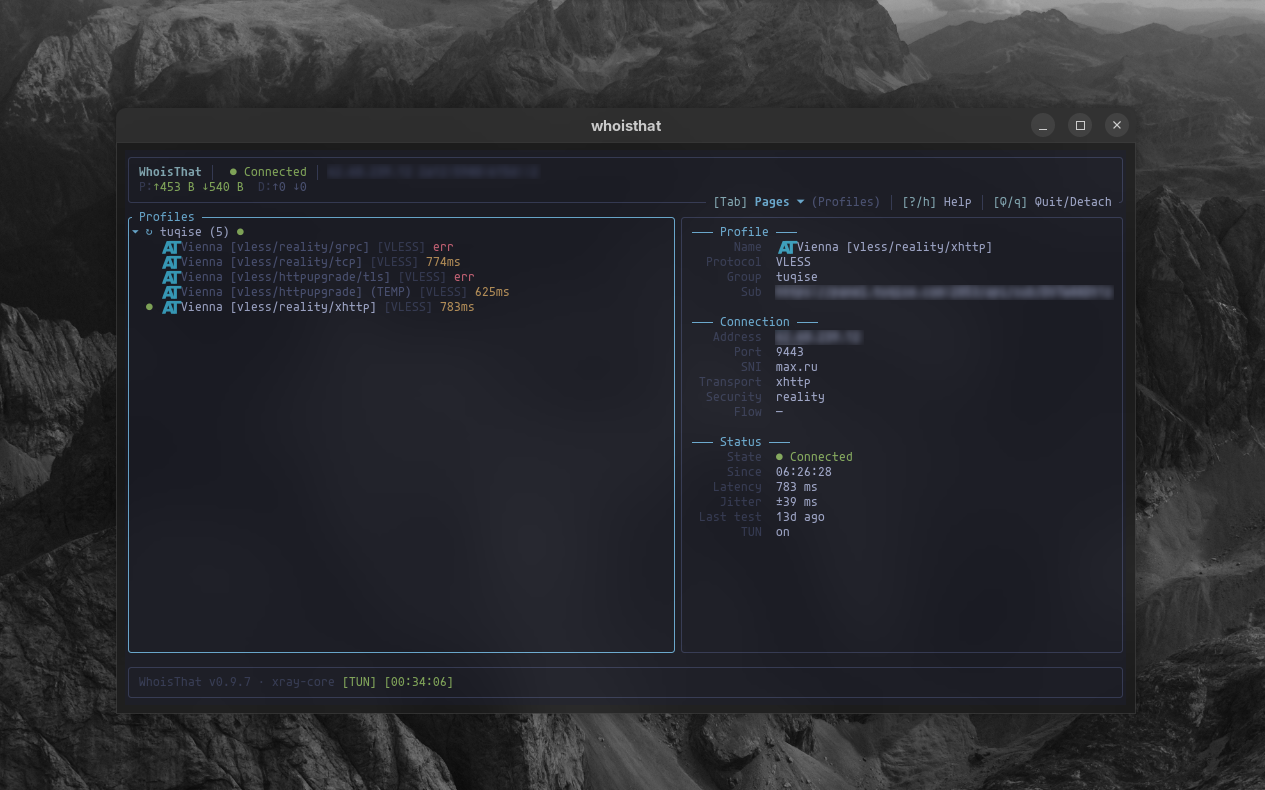
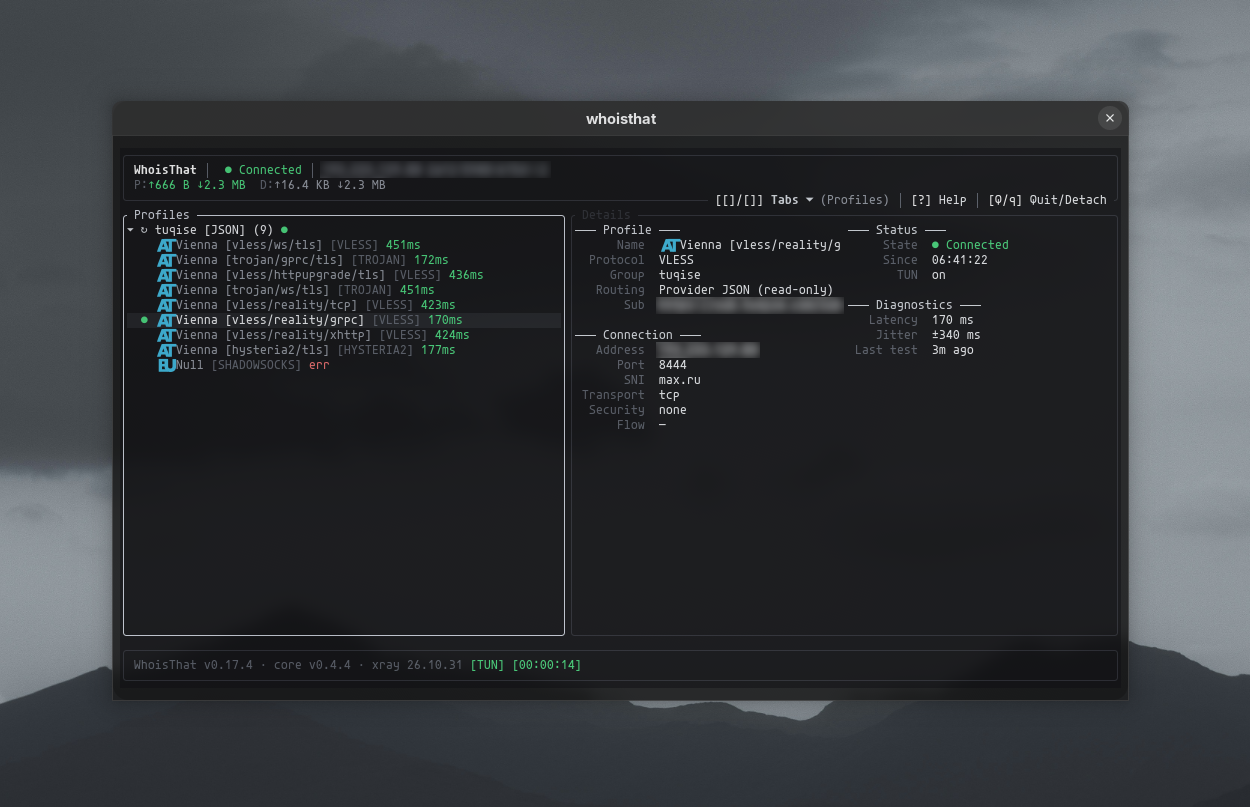
docs: refresh screenshots, drop duplicate assets and document donation options

diff --git a/README.md b/README.md
@@ -27,9 +27,9 @@
 **WhoisThat** brings ergonomic terminal interaction to modern proxy circumvention and system-wide VPN networking. It eliminates the need for bulky Electron apps while delivering full rootless TUN routing, application-level split tunneling via cgroup v2, real-time Braille bandwidth graphs, and comprehensive provider subscription management.
 
 <div align="center">
-  <img src="screen1.png" alt="WhoisThat Profiles & Details" width="100%" />
+  <img src="docs/public/screen1.png" alt="WhoisThat Profiles & Details" width="100%" />
   <br/><br/>
-  <img src="screen2.png" alt="WhoisThat Real-Time Traffic Monitoring" width="100%" />
+  <img src="docs/public/screen2.png" alt="WhoisThat Real-Time Traffic Monitoring" width="100%" />
 </div>
 
 ---
@@ -176,6 +176,28 @@ Full, comprehensive documentation with technical deep-dives, configuration guide
 - **[GNOME Shell Extension](https://github.com/kvunoff/whoisthat-extension)** — Top-bar status badge, real-time speed monitor, and quick controls.
 - **[Deep Links (`wit://`)](https://docs.tuqise.com/integrations/deeplinks)** — One-click profile and subscription imports directly from web browsers.
 - **[whoisthat-core](https://github.com/kvunoff/whoisthat-core)** — Standalone mirror of the Go daemon (`core/core`), rebuilt on every core change and `core-v*` tag.
+
+---
+
+## Support the Project
+
+WhoisThat is built and maintained in spare time. If it saves you from a
+bulky desktop client, donations are appreciated.
+
+| Network | Address |
+| :--- | :--- |
+| **Bitcoin (BTC)** | `bc1qutg32qasdyuuc03l9rtm3uxwncfjafqnhpnnec` |
+| **Ethereum (ETH / ERC-20)** | `0x7C643C5b704ADD1888a0F68457cf6b0c5c3508C6` |
+| **Tron (TRX / TRC-20)** | `TWSvpXfJsYcDVB9PEwVAgCUXT5RSdtxaYL` |
+| **TON (GRAM / jettons)** | `UQAablx88aAbnjXTnU2t6LYoEHIEQeCv6wMqYZaqeoNjSb_x` |
+| **Solana (SOL / SPL)** | `DckqFaa2PUikF3eQCt79vzGrg1xCM1j3uYyUNDSsswoX` |
+
+Each address accepts the network's native coin and, where the network supports
+them, stablecoins (USDT/USDC): ERC-20 on Ethereum, TRC-20 on Tron, SPL on
+Solana, jettons on TON. The Bitcoin address accepts BTC only.
+
+The native coin of TON is **Gram (GRAM)** — formerly Toncoin (TON). The
+blockchain is still called TON, and the address is unchanged.
 
 ---
 

diff --git a/docs/index.md b/docs/index.md
@@ -97,7 +97,7 @@ All subscription tokens, server configs, and routing rules are saved locally und
 ## Visual Preview
 
 ::: info
-These screenshots were captured from an earlier release and show the legacy TUN name `tun0`; the current default is `whoisthattun` and the layout has evolved.
+The TUN interface is named `whoisthattun` by default. The name is configurable in Settings — the screenshots above use a custom `tun0`.
 :::
 
 <div style="display: flex; flex-direction: column; gap: 1.5rem; margin: 1.5rem 0;">
@@ -129,3 +129,21 @@ Get started exploring the documentation:
 * **[Split Tunneling](/networking/split-tunnel)** — Complete manual on running apps inside cgroup v2 transient slices.
 * **[CLI & Desktop Widgets](/integrations/cli)** — Command-line flags, Waybar, Polybar, and the GNOME Shell extension.
 * **[Wire Protocol Reference](/reference/protocol)** — Complete specification of IPC commands and streaming notifications.
+
+---
+
+## Support the Project
+
+WhoisThat is built and maintained in spare time. If it saves you from a bulky desktop client, donations are appreciated.
+
+| Network | Address |
+| :--- | :--- |
+| **Bitcoin (BTC)** | `bc1qutg32qasdyuuc03l9rtm3uxwncfjafqnhpnnec` |
+| **Ethereum (ETH / ERC-20)** | `0x7C643C5b704ADD1888a0F68457cf6b0c5c3508C6` |
+| **Tron (TRX / TRC-20)** | `TWSvpXfJsYcDVB9PEwVAgCUXT5RSdtxaYL` |
+| **TON (GRAM / jettons)** | `UQAablx88aAbnjXTnU2t6LYoEHIEQeCv6wMqYZaqeoNjSb_x` |
+| **Solana (SOL / SPL)** | `DckqFaa2PUikF3eQCt79vzGrg1xCM1j3uYyUNDSsswoX` |
+
+Each address accepts the network's native coin and, where the network supports them, stablecoins (USDT/USDC): ERC-20 on Ethereum, TRC-20 on Tron, SPL on Solana, jettons on TON. The Bitcoin address accepts BTC only.
+
+The native coin of TON is **Gram (GRAM)** — formerly Toncoin (TON). The blockchain is still called TON, and the address is unchanged.
